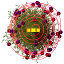
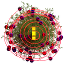
Scene direction fixes.

diff --git a/ENGIN/ENGIN_DEMO/source/Pseudo3D.cpp b/ENGIN/ENGIN_DEMO/source/Pseudo3D.cpp
@@ -83,15 +83,18 @@ namespace Engin
 
 			moveSpeed = 0.08f;
 			rotSpeed = 0.03f;
-			player = { { 22.0f, 9.5f, 0.0f, 0 , 1} }; //x,y,rotation(radians), how many sides drawn, spritetype
+			player = { { 22.0f, 9.5f, 0.0f, 0 , 1} }; //x,y,rotation(radians), how many sides drawn, spritetype.
 
-			dirX = -1, dirY = 0; //initial direction vector
-			planeX = 0.0f, planeY = 0.5; //the 2d raycaster version of camera plane
+			dirX = 1.0, dirY = 0; //initial direction vector
+			planeX = 0.0f, planeY = -0.5; //the 2d raycaster version of camera plane
 
 			//GameObjects.
 			createFurball(15.0f, 5.0f, 0.0f);
 			createFurball(8.0f, 18.3f, 0.0f);
-			createFurball(13.5f, 12.7f, 0.0f);
+			createFurball(13.5f, 12.7f, 0.0f); // Player 2 currently
+			gameObjects.back()->accessComponent<UserData>()->spriteColorR = 0.5f;
+			gameObjects.back()->accessComponent<UserData>()->spriteColorG = 0.5f;
+			gameObjects.back()->accessComponent<UserData>()->spriteColorB = 5.0f;
 			createFurball(14.0f, 12.0f, 0.0f);
 			createFurball(15.0f, 13.8f, 0.0f);
 			createFurball(16.0f, 4.0f, 0.0f);
@@ -115,7 +118,6 @@ namespace Engin
 			createTree(23.0f, 7.0f, 0.0f);
 			createTree(23.0f, 8.0f, 0.0f);
 			
-			createTree(20.0f, 5.0f+ 6.0f, 0.0f);
 			createTree(20.0f, 5.0f+ 6.0f, 0.0f);
 			createTree(20.0f, 6.0f+ 6.0f, 0.0f);
 			createTree(20.0f, 7.0f+ 6.0f, 0.0f);
@@ -359,7 +361,7 @@ namespace Engin
 			RaycastingSprites();
 
 			// Saving player rotation.
-			player[2] = -glm::atan(dirX, dirY);
+			player[2] = glm::atan(dirY, dirX);
 			if (player[2] < 0)
 			{
 				player[2] += glm::radians(360.0f);
@@ -389,13 +391,13 @@ namespace Engin
 			
 			// Rotating sprites in radians.
 			gameObjects[5]->accessComponent<Transform>()->setRotation(alpha * 5);
-			gameObjects[0]->accessComponent<Transform>()->setRotation(2*alpha);
+			gameObjects[0]->accessComponent<Transform>()->setRotation(glm::radians(0.0f) + 2*alpha);
 			gameObjects[4]->accessComponent<Transform>()->setRotation(alpha + 0.02);
 			gameObjects[10]->accessComponent<Transform>()->setRotation(glm::radians(315.0f) + 2*alpha);
 
 			gameObjects[1]->accessComponent<Transform>()->setRotation(2 * alpha);
 
-			//moving sprites TODO: Make some logic and translate sprites with them.
+			// Moving sprites TODO: Make some logic and translate sprites with them.
 			gameObjects[0]->accessComponent<Transform>()->setXPosition(3.0f + glm::cos(gameObjects[0]->accessComponent<Transform>()->getRotation()));
 			gameObjects[0]->accessComponent<Transform>()->setYPosition(15.0f + glm::sin(gameObjects[0]->accessComponent<Transform>()->getRotation()));
 
@@ -408,72 +410,86 @@ namespace Engin
 			gameObjects[1]->accessComponent<Transform>()->setXPosition(8.0f + 4.0f * glm::cos(alpha));
 
 #pragma region Launchers
-			//fireball launchers	
+			// Fireball launchers	
 
 			if (turretCoolDown.getLocalTime() > 2500.0f)
 			{
-				createProjectile(6, 11, 0);
-				createProjectile(8, 11, 0);
-				createProjectile(7, 24, glm::radians(180.0f));
+				createProjectile(6, 11, glm::radians(90.0f));
+				createProjectile(8, 11, glm::radians(90.0f));
+				createProjectile(7, 24, glm::radians(270.0f));
 				turretCoolDown.start();
 			}
 #pragma endregion
 
-			{ // Moving player 2. TODO change player 1 to gameobject...
-				float multiplier = 0.0f;
-				float rotX = glm::cos(gameObjects[2]->accessComponent<Transform>()->getRotation());
-				float rotY = glm::sin(gameObjects[2]->accessComponent<Transform>()->getRotation());
-								
-				if (engine->keyboardInput->keyIsPressed(HID::KEYBOARD_KP_8) || engine->keyboardInput->keyIsPressed(HID::KEYBOARD_KP_5))
-				{
-					if (engine->keyboardInput->keyIsPressed(HID::KEYBOARD_KP_8))
+#pragma region Player2
+				{ // Moving player 2. TODO change player 1 to gameobject...
+					float multiplier = 0.0f;
+					float rotX = glm::cos(gameObjects[2]->accessComponent<Transform>()->getRotation());
+					float rotY = glm::sin(gameObjects[2]->accessComponent<Transform>()->getRotation());
+
+					if (engine->keyboardInput->keyIsPressed(HID::KEYBOARD_KP_8) || engine->keyboardInput->keyIsPressed(HID::KEYBOARD_KP_5))
 					{
-						multiplier = 1.0f;
-					}
-					if (engine->keyboardInput->keyIsPressed(HID::KEYBOARD_KP_5))
-					{
-						multiplier = -1.0f;
+						if (engine->keyboardInput->keyIsPressed(HID::KEYBOARD_KP_8))
+						{
+							multiplier = 1.0f;
+						}
+						if (engine->keyboardInput->keyIsPressed(HID::KEYBOARD_KP_5))
+						{
+							multiplier = -1.0f;
+						}
+
+						// Move forwards or backwards.
+						if (wallTiles[static_cast<int>(gameObjects[2]->accessComponent<Transform>()->getXPosition() + rotX * moveSpeed* multiplier)][static_cast<int>(gameObjects[2]->accessComponent<Transform>()->getYPosition())] == false)
+						{
+							gameObjects[2]->accessComponent<Transform>()->setXPosition(gameObjects[2]->accessComponent<Transform>()->getXPosition() + rotX * moveSpeed * multiplier);
+						}
+						if (wallTiles[static_cast<int>(gameObjects[2]->accessComponent<Transform>()->getXPosition())][static_cast<int>(gameObjects[2]->accessComponent<Transform>()->getYPosition() + dirY * moveSpeed * multiplier)] == false)
+						{
+							gameObjects[2]->accessComponent<Transform>()->setYPosition(gameObjects[2]->accessComponent<Transform>()->getYPosition() + rotY * moveSpeed * multiplier);
+						}
 					}
 
-					// Move forwards or backwards.
-					if (wallTiles[static_cast<int>(gameObjects[2]->accessComponent<Transform>()->getXPosition() + rotX * moveSpeed* multiplier)][static_cast<int>(gameObjects[2]->accessComponent<Transform>()->getYPosition())] == false)
+					// Player 2 strafe.
+					/*if (engine->keyboardInput->keyIsPressed(HID::KEYBOARD_KP_7));
 					{
-						gameObjects[2]->accessComponent<Transform>()->setXPosition(gameObjects[2]->accessComponent<Transform>()->getXPosition() + rotX * moveSpeed * multiplier);
-					}
-					if (wallTiles[static_cast<int>(gameObjects[2]->accessComponent<Transform>()->getXPosition())][static_cast<int>(gameObjects[2]->accessComponent<Transform>()->getYPosition() + dirY * moveSpeed * multiplier)] == false)
-					{
-						gameObjects[2]->accessComponent<Transform>()->setYPosition(gameObjects[2]->accessComponent<Transform>()->getYPosition() + rotY * moveSpeed * multiplier);
-					}
-				}			
 
-				if (engine->keyboardInput->keyIsPressed(HID::KEYBOARD_KP_4))
-				{
-					gameObjects[2]->accessComponent<Transform>()->setRotation(gameObjects[2]->accessComponent<Transform>()->getRotation() + rotSpeed);
+					}
+					if (engine->keyboardInput->keyIsPressed(HID::KEYBOARD_KP_9));
+					{
+
+					}*/
+
+					// Player 2 rotation.
+					if (engine->keyboardInput->keyIsPressed(HID::KEYBOARD_KP_4))
+					{
+						gameObjects[2]->accessComponent<Transform>()->setRotation(gameObjects[2]->accessComponent<Transform>()->getRotation() + rotSpeed);
+					}
+					if (engine->keyboardInput->keyIsPressed(HID::KEYBOARD_KP_6))
+					{
+						gameObjects[2]->accessComponent<Transform>()->setRotation(gameObjects[2]->accessComponent<Transform>()->getRotation() - rotSpeed);
+					}
 				}
-				if (engine->keyboardInput->keyIsPressed(HID::KEYBOARD_KP_6))
-				{
-					gameObjects[2]->accessComponent<Transform>()->setRotation(gameObjects[2]->accessComponent<Transform>()->getRotation() - rotSpeed);
-				}
-			}
 
-			// Player 2 camera zoom
-			static float zoomByInput = 1.0f;
-			if (engine->mouseInput->mouseWheelWasMoved(HID::MOUSEWHEEL_UP))
-			{
-				if (zoomByInput > 0.0f)
+				// Player 2 camera zoom
+				static float zoomByInput = 1.0f;
+				if (engine->mouseInput->mouseWheelWasMoved(HID::MOUSEWHEEL_UP))
 				{
-					zoomByInput -= glm::radians(2.0f);
+					if (zoomByInput > 0.0f)
+					{
+						zoomByInput -= glm::radians(2.0f);
+					}
 				}
-			}
-			if (engine->mouseInput->mouseWheelWasMoved(HID::MOUSEWHEEL_DOWN))
-			{
-				zoomByInput += glm::radians(2.0f);
-			}
+				if (engine->mouseInput->mouseWheelWasMoved(HID::MOUSEWHEEL_DOWN))
+				{
+					zoomByInput += glm::radians(2.0f);
+				}
 
-			// Camera for player 2.
-			camera2->setZoomLevel(zoomByInput);
-			camera2->setPositionRotationOrigin(gameObjects[2]->accessComponent<Transform>()->getXPosition()*tileSize2d, gameObjects[2]->accessComponent<Transform>()->getYPosition()*tileSize2d);
-			camera2->setRotation(gameObjects[2]->accessComponent<Transform>()->getRotation() - glm::radians(90.0f));
+				// Camera for player 2.
+				camera2->setZoomLevel(zoomByInput);
+				camera2->setPositionRotationOrigin(gameObjects[2]->accessComponent<Transform>()->getXPosition()*tileSize2d, gameObjects[2]->accessComponent<Transform>()->getYPosition()*tileSize2d);
+				camera2->setRotation(gameObjects[2]->accessComponent<Transform>()->getRotation() - glm::radians(90.0f));
+#pragma endregion
+
 
 			// Information display.		
 			textCreator3.createTextTexture(font, "WASD + arrows " + std::to_string(player[0]) + " " + std::to_string(player[1]) + " angle: " + std::to_string(glm::degrees(player[2])), 255, 100, 0);
@@ -537,9 +553,7 @@ namespace Engin
 			}
 						
 			//Roof and floor for raycast
-			//opaqueBatch.draw(roof_16, &glm::vec4(0.0f, 0.0f, raycastW, raycastH), -2400.0f, raycastH / 2.0f, raycastW, raycastH / 2.0f, 0.0f, 0.0f, 0.0f, 1.0f, { 0.75, 0.5, 0.0 }, 1.0f, 0.0f);
 			opaqueBatch.draw(floor_800, &glm::vec4(0.0f, 0.0f, floor_800->getWidth(), floor_800->getHeight()), -2400.0f, 400.0f, floor_800->getWidth(), floor_800->getHeight(), 0.0f, 0.0f, 0.0f, 1.0f, Renderer::Color{ 0.5, 0.2, 0.0 } * 2.0f, 1.0f, 0.0f);
-
 			opaqueBatch.draw(floor_800, &glm::vec4(0.0f, 0.0f, floor_800->getWidth(), floor_800->getHeight()), -2400.0f, 0.0f, floor_800->getWidth(), floor_800->getHeight(), 0.0f, 0.0f, 0.0f, 1.0f, Renderer::Color{ 0.3, 0.3, 0.4 } * 3.0f, 1.0f, 0.0f);
 
 			//Raycast walls
@@ -720,7 +734,7 @@ namespace Engin
 				spriteXout = -spriteHeightWidth / 2 + spriteScreenX;
 
 				//Calculating sprite side				
-				spriteAngle = (glm::atan(-spriteX , -spriteY));
+				spriteAngle = (glm::atan(-spriteX, -spriteY)) - glm::radians(90.0f);  // TODO: Fix rotation 90 degrees differently.
 				if (spriteAngle < 0.0f)
 				{
 					spriteAngle += glm::radians(360.0f);
@@ -853,23 +867,26 @@ namespace Engin
 			//sprites
 			for (size_t i = 0; i < gameObjects.size(); i++)
 			{
+				// 2D Tree
 				if (gameObjects[i]->accessComponent<UserData>()->isTree == true)
 				{
 					alphaBatch.draw(tree_64, &glm::vec4(0.0f, 0.0f, tree_64->getWidth(), tree_64->getHeight()),
 						gameObjects[i]->accessComponent<Transform>()->getXPosition() * tileSize2d, gameObjects[i]->accessComponent<Transform>()->getYPosition() * tileSize2d, tree_64->getWidth(),
 						tree_64->getHeight(), tree_64->getWidth() / 2, tree_64->getHeight() / 2, gameObjects[i]->accessComponent<Transform>()->getRotation(), 1.0f, Renderer::clrWhite, 1.0f, 0.8f + i*0.000001f);
 				}
+				// 2D Furball
 				else if (gameObjects[i]->accessComponent<UserData>()->isFireball != true)
 				{
 					alphaBatch.draw(furball, &glm::vec4(0.0f, 0.0f, furball->getWidth(), furball->getHeight()),
 						gameObjects[i]->accessComponent<Transform>()->getXPosition() * tileSize2d, gameObjects[i]->accessComponent<Transform>()->getYPosition() * tileSize2d, furball->getWidth(),
-						furball->getHeight(), tileSize2d / 2.0f, tileSize2d / 2.0f, gameObjects[i]->accessComponent<Transform>()->getRotation(), 1.0f, Renderer::clrWhite, 1.0f, 0.7f + i*0.000001f);
+						furball->getHeight(), tileSize2d / 2.0f, tileSize2d / 2.0f, gameObjects[i]->accessComponent<Transform>()->getRotation(), 1.0f, 
+						Renderer::Color{ gameObjects[i]->accessComponent<UserData>()->spriteColorR, gameObjects[i]->accessComponent<UserData>()->spriteColorG, gameObjects[i]->accessComponent<UserData>()->spriteColorB }, 1.0f, 0.7f + i*0.000001f);
 				}				
-				//if fireball
+				// 2D fireball
 				else
 				{
 					alphaBatch.draw(animPlayer2d.getTexture(), animPlayer2d.getCurrentFrameTexCoords(),
-						gameObjects[i]->accessComponent<Transform>()->getXPosition() * tileSize2d, gameObjects[i]->accessComponent<Transform>()->getYPosition() * tileSize2d, 256, 256, 256 / 2, 256 / 2, gameObjects[i]->accessComponent<Transform>()->getRotation() + glm::radians(90.0f),
+						gameObjects[i]->accessComponent<Transform>()->getXPosition() * tileSize2d, gameObjects[i]->accessComponent<Transform>()->getYPosition() * tileSize2d, 256, 256, 256 / 2, 256 / 2, gameObjects[i]->accessComponent<Transform>()->getRotation(),
 						0.25f, Renderer::clrWhite, 1.0f, 0.8f + i * 0.001f);
 				}
 			}
@@ -878,7 +895,7 @@ namespace Engin
 			alphaBatch.draw(furball, &glm::vec4(0.0f, 0.0f, furball->getWidth(), furball->getHeight()), player[0] * tileSize2d, player[1] * tileSize2d, furball->getWidth(), furball->getHeight(), tileSize2d / 2.0f, tileSize2d / 2.0f, player[2], 1.0f, Renderer::clrRed, 1.0f, 0.8f);
 
 			//2d floor
-			opaqueBatch.draw(roof_16, &glm::vec4(0.0f, 0.0f, mapX * tileSize2d, mapY * tileSize2d), 0.0f, 0.0f, mapX * tileSize2d, mapY * tileSize2d, 0.0f, 0.0f, 0.0f, 1.0f, { 0.5, 0.5, 0.5 }, 1.0f, 0.0f);
+			opaqueBatch.draw(roof_16, &glm::vec4(0.0f, 0.0f, mapX * tileSize2d, mapY * tileSize2d), 0.0f, 0.0f, mapX * tileSize2d, mapY * tileSize2d, 0.0f, 0.0f, 0.0f, 1.0f, Renderer::Color{ 0.3, 0.3, 0.4 } *3.0f, 1.0f, 0.0f);
 			//---------------
 		}
 
@@ -913,6 +930,9 @@ namespace Engin
 			gameObjects.back()->accessComponent<UserData>()->hasShadow = true;
 			gameObjects.back()->accessComponent<UserData>()->hitAnimStart = 40;
 			gameObjects.back()->accessComponent<UserData>()->hitAnimEnd = 63;
+			gameObjects.back()->accessComponent<UserData>()->spriteColorR = 1.0f;
+			gameObjects.back()->accessComponent<UserData>()->spriteColorG = 1.0f;
+			gameObjects.back()->accessComponent<UserData>()->spriteColorB = 1.0f;
 
 			//rigidBody
 			gameObjects.back()->accessComponent<RigidBody>()->setCollisionRadius(0.4f);
@@ -948,6 +968,9 @@ namespace Engin
 			gameObjects.back()->accessComponent<UserData>()->tileOverSize = 256;
 			gameObjects.back()->accessComponent<UserData>()->isTree = true;
 			gameObjects.back()->accessComponent<UserData>()->depthRandom = randomGenerator.getRandomFloat(-0.000001, 0.000001);
+			gameObjects.back()->accessComponent<UserData>()->spriteColorR = 1.0f;
+			gameObjects.back()->accessComponent<UserData>()->spriteColorG = 1.0f;
+			gameObjects.back()->accessComponent<UserData>()->spriteColorB = 1.0f;
 
 			gameObjects.back()->accessComponent<UserData>()->shadow = treeShadow;
 			gameObjects.back()->accessComponent<UserData>()->hasShadow = true;
@@ -981,6 +1004,9 @@ namespace Engin
 			gameObjects.back()->accessComponent<UserData>()->animationIndex = 0;
 			gameObjects.back()->accessComponent<PseudoSpriteDraw>()->setTextureBatch(&alphaBatch);
 			gameObjects.back()->accessComponent<PseudoSpriteDraw>()->setRaycastW(raycastW);
+			gameObjects.back()->accessComponent<UserData>()->spriteColorR = 1.0f;
+			gameObjects.back()->accessComponent<UserData>()->spriteColorG = 1.0f;
+			gameObjects.back()->accessComponent<UserData>()->spriteColorB = 1.0f;
 
 			gameObjects.back()->accessComponent<UserData>()->isFireball = true;
 
@@ -991,8 +1017,8 @@ namespace Engin
 		void Pseudo3D::Projectile::update()
 		{
 			Transform* t = ownerObject->accessComponent<Transform>();
-			t->setXPosition(t->getXPosition() + speed * cosf(t->getRotation() + glm::radians(90.0f + rng.getRandomFloat(-spread, spread))));
-			t->setYPosition(t->getYPosition() + speed * sinf(t->getRotation() + glm::radians(90.0f + rng.getRandomFloat(-spread, spread))));
+			t->setXPosition(t->getXPosition() + speed * cosf(t->getRotation() + glm::radians(rng.getRandomFloat(-spread, spread))));
+			t->setYPosition(t->getYPosition() + speed * sinf(t->getRotation() + glm::radians(rng.getRandomFloat(-spread, spread))));
 		}
 
 		// Deletes killed objects from the gameObjects vector.

diff --git a/ENGIN/ENGIN_DEMO/include/Pseudo3D.h b/ENGIN/ENGIN_DEMO/include/Pseudo3D.h
@@ -78,6 +78,9 @@ namespace Engin
 				int tileOverSize = 0;
 				bool isTree = false;
 				float depthRandom = 0.0f;
+				float spriteColorR;
+				float spriteColorG;
+				float spriteColorB;
 				void isHit()
 				{
 					if (hitAnimStart > 0)
@@ -127,7 +130,8 @@ namespace Engin
 							ownerObject->accessComponent<UserData>()->spriteXout, ownerObject->accessComponent<UserData>()->spriteYout,
 							ownerObject->accessComponent<AnimationPlayer>()->getFrameWidth(), ownerObject->accessComponent<AnimationPlayer>()->getFrameHeight(),
 							0.0f, 0.0f,	0.0f, 
-							ownerObject->accessComponent<Transform>()->getScale(), Renderer::Color{ 1.0f, 1.0f, 1.0f } *colorValue,
+							ownerObject->accessComponent<Transform>()->getScale(), 
+							Renderer::Color{ ownerObject->accessComponent<UserData>()->spriteColorR, ownerObject->accessComponent<UserData>()->spriteColorG, ownerObject->accessComponent<UserData>()->spriteColorB } *colorValue,
 							1.0f, ownerObject->accessComponent<Transform>()->getDepth() + ownerObject->accessComponent<UserData>()->depthRandom);
 
 						//shadow
@@ -137,7 +141,8 @@ namespace Engin
 								ownerObject->accessComponent<UserData>()->spriteXout, ownerObject->accessComponent<UserData>()->spriteYout,
 								ownerObject->accessComponent<UserData>()->shadow->getWidth(), (ownerObject->accessComponent<UserData>()->shadow->getHeight() + ownerObject->accessComponent<Transform>()->getDepth()*50),
 								0.0f, 0.0f, 0.0f,
-								ownerObject->accessComponent<Transform>()->getScale(), Renderer::Color{ 1.0f, 1.0f, 1.0f } *colorValue, 1.0f,
+								ownerObject->accessComponent<Transform>()->getScale(), 
+								Renderer::Color{ ownerObject->accessComponent<UserData>()->spriteColorR, ownerObject->accessComponent<UserData>()->spriteColorG, ownerObject->accessComponent<UserData>()->spriteColorB } *colorValue, 1.0f,
 								ownerObject->accessComponent<Transform>()->getDepth() - 0.00001 + ownerObject->accessComponent<UserData>()->depthRandom);
 						}						
 					}
